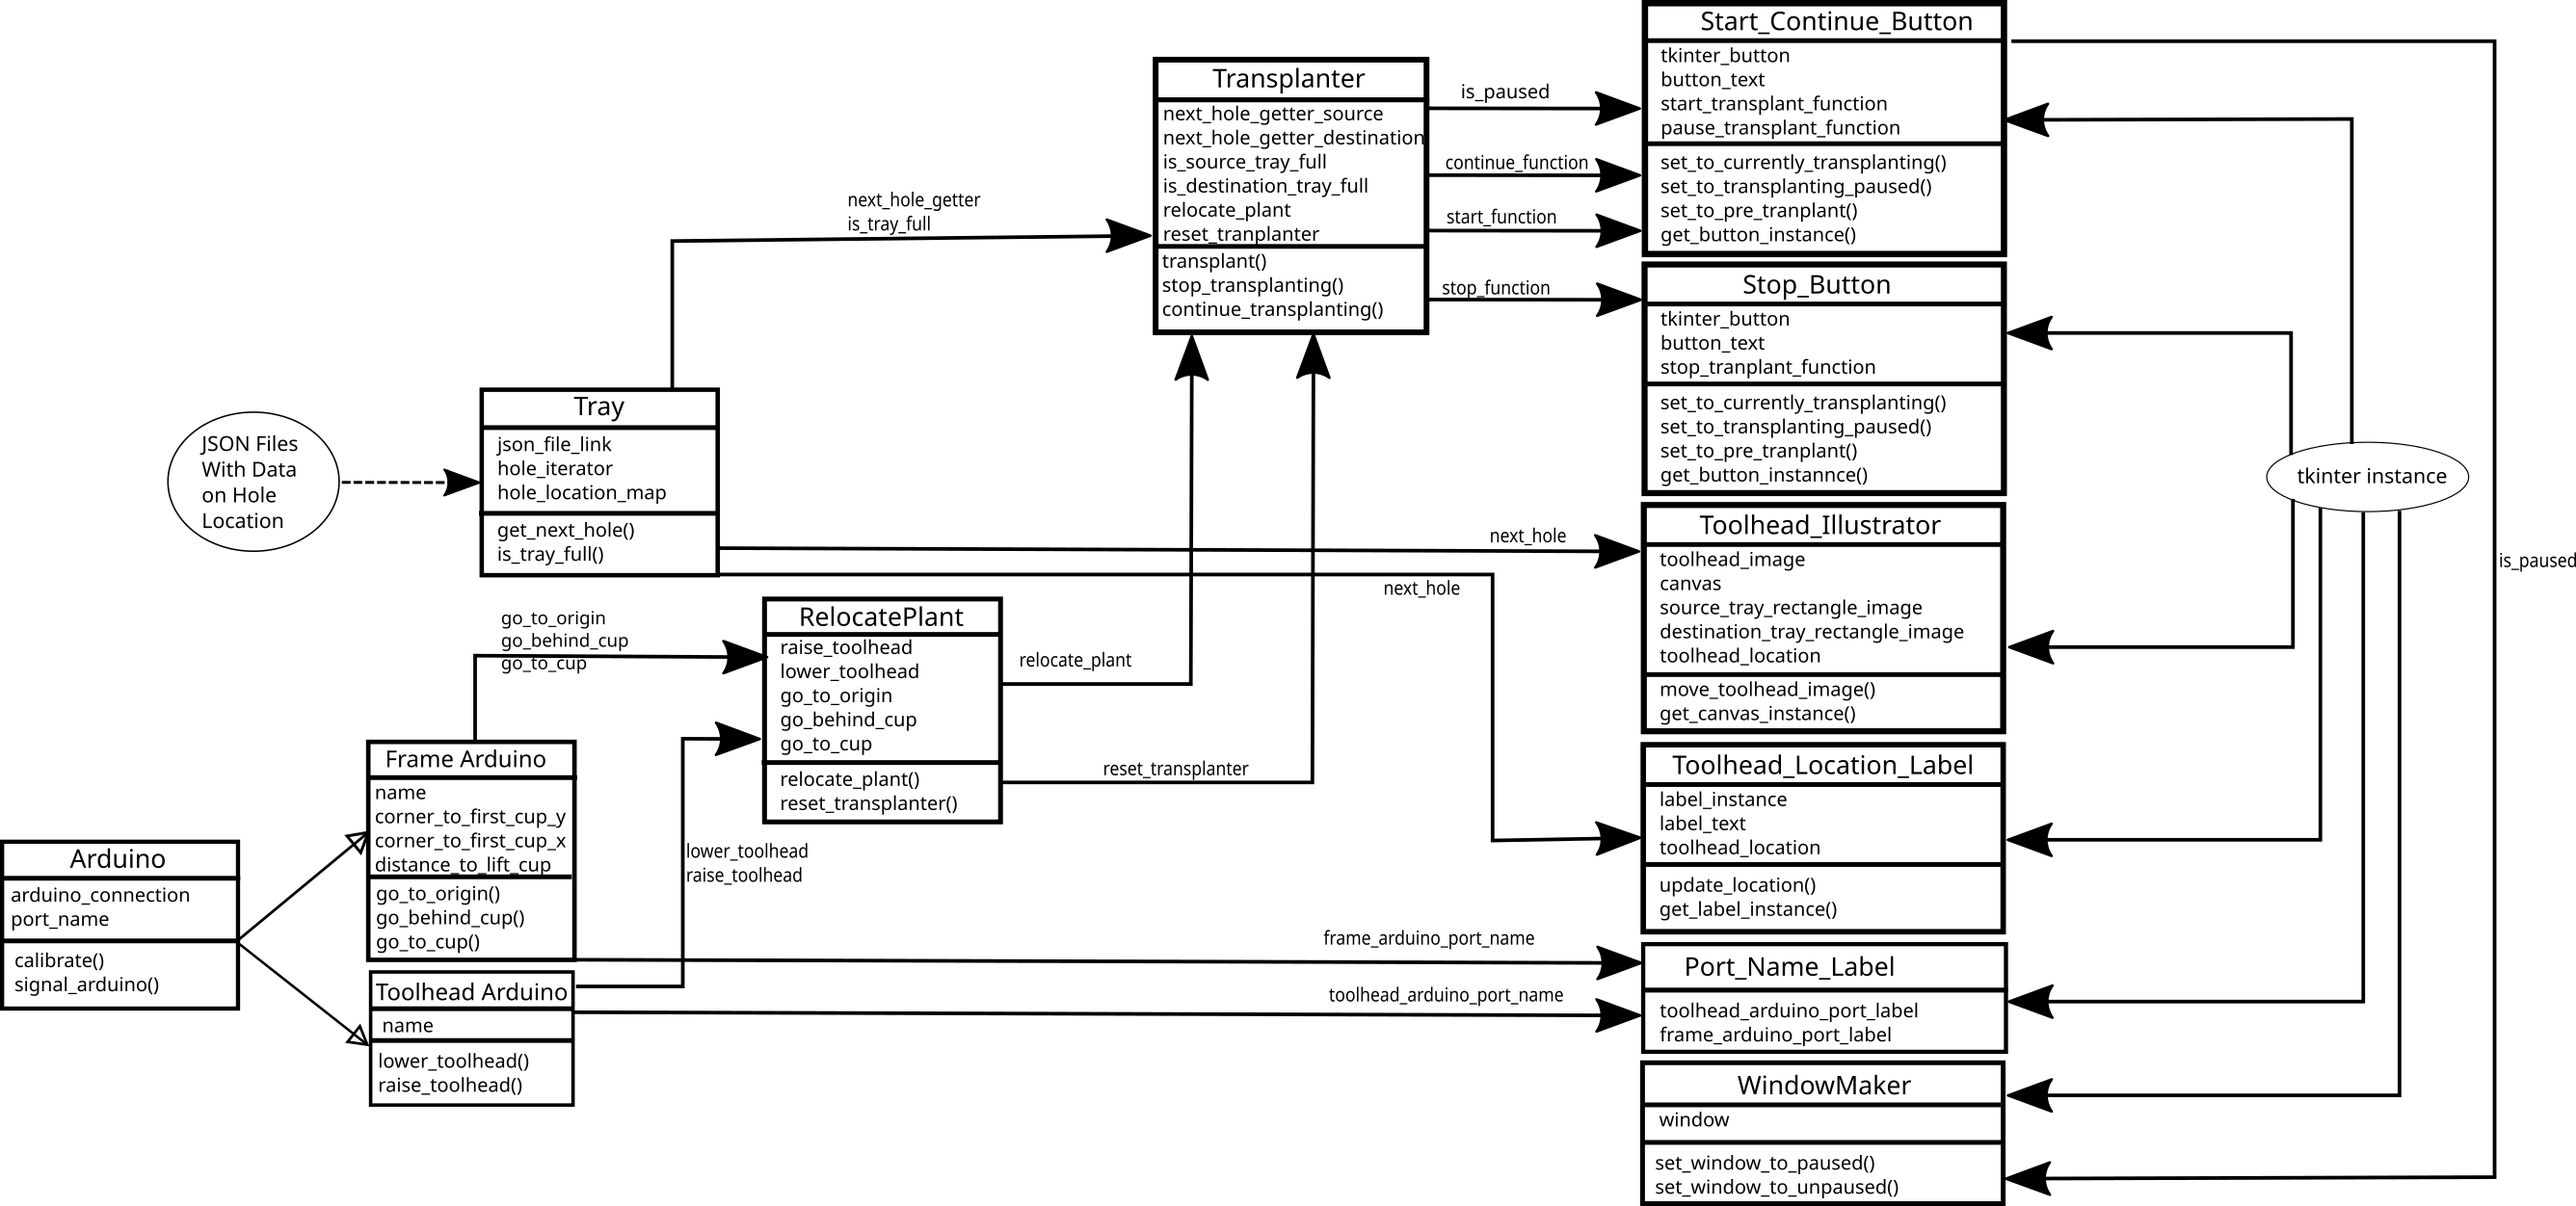
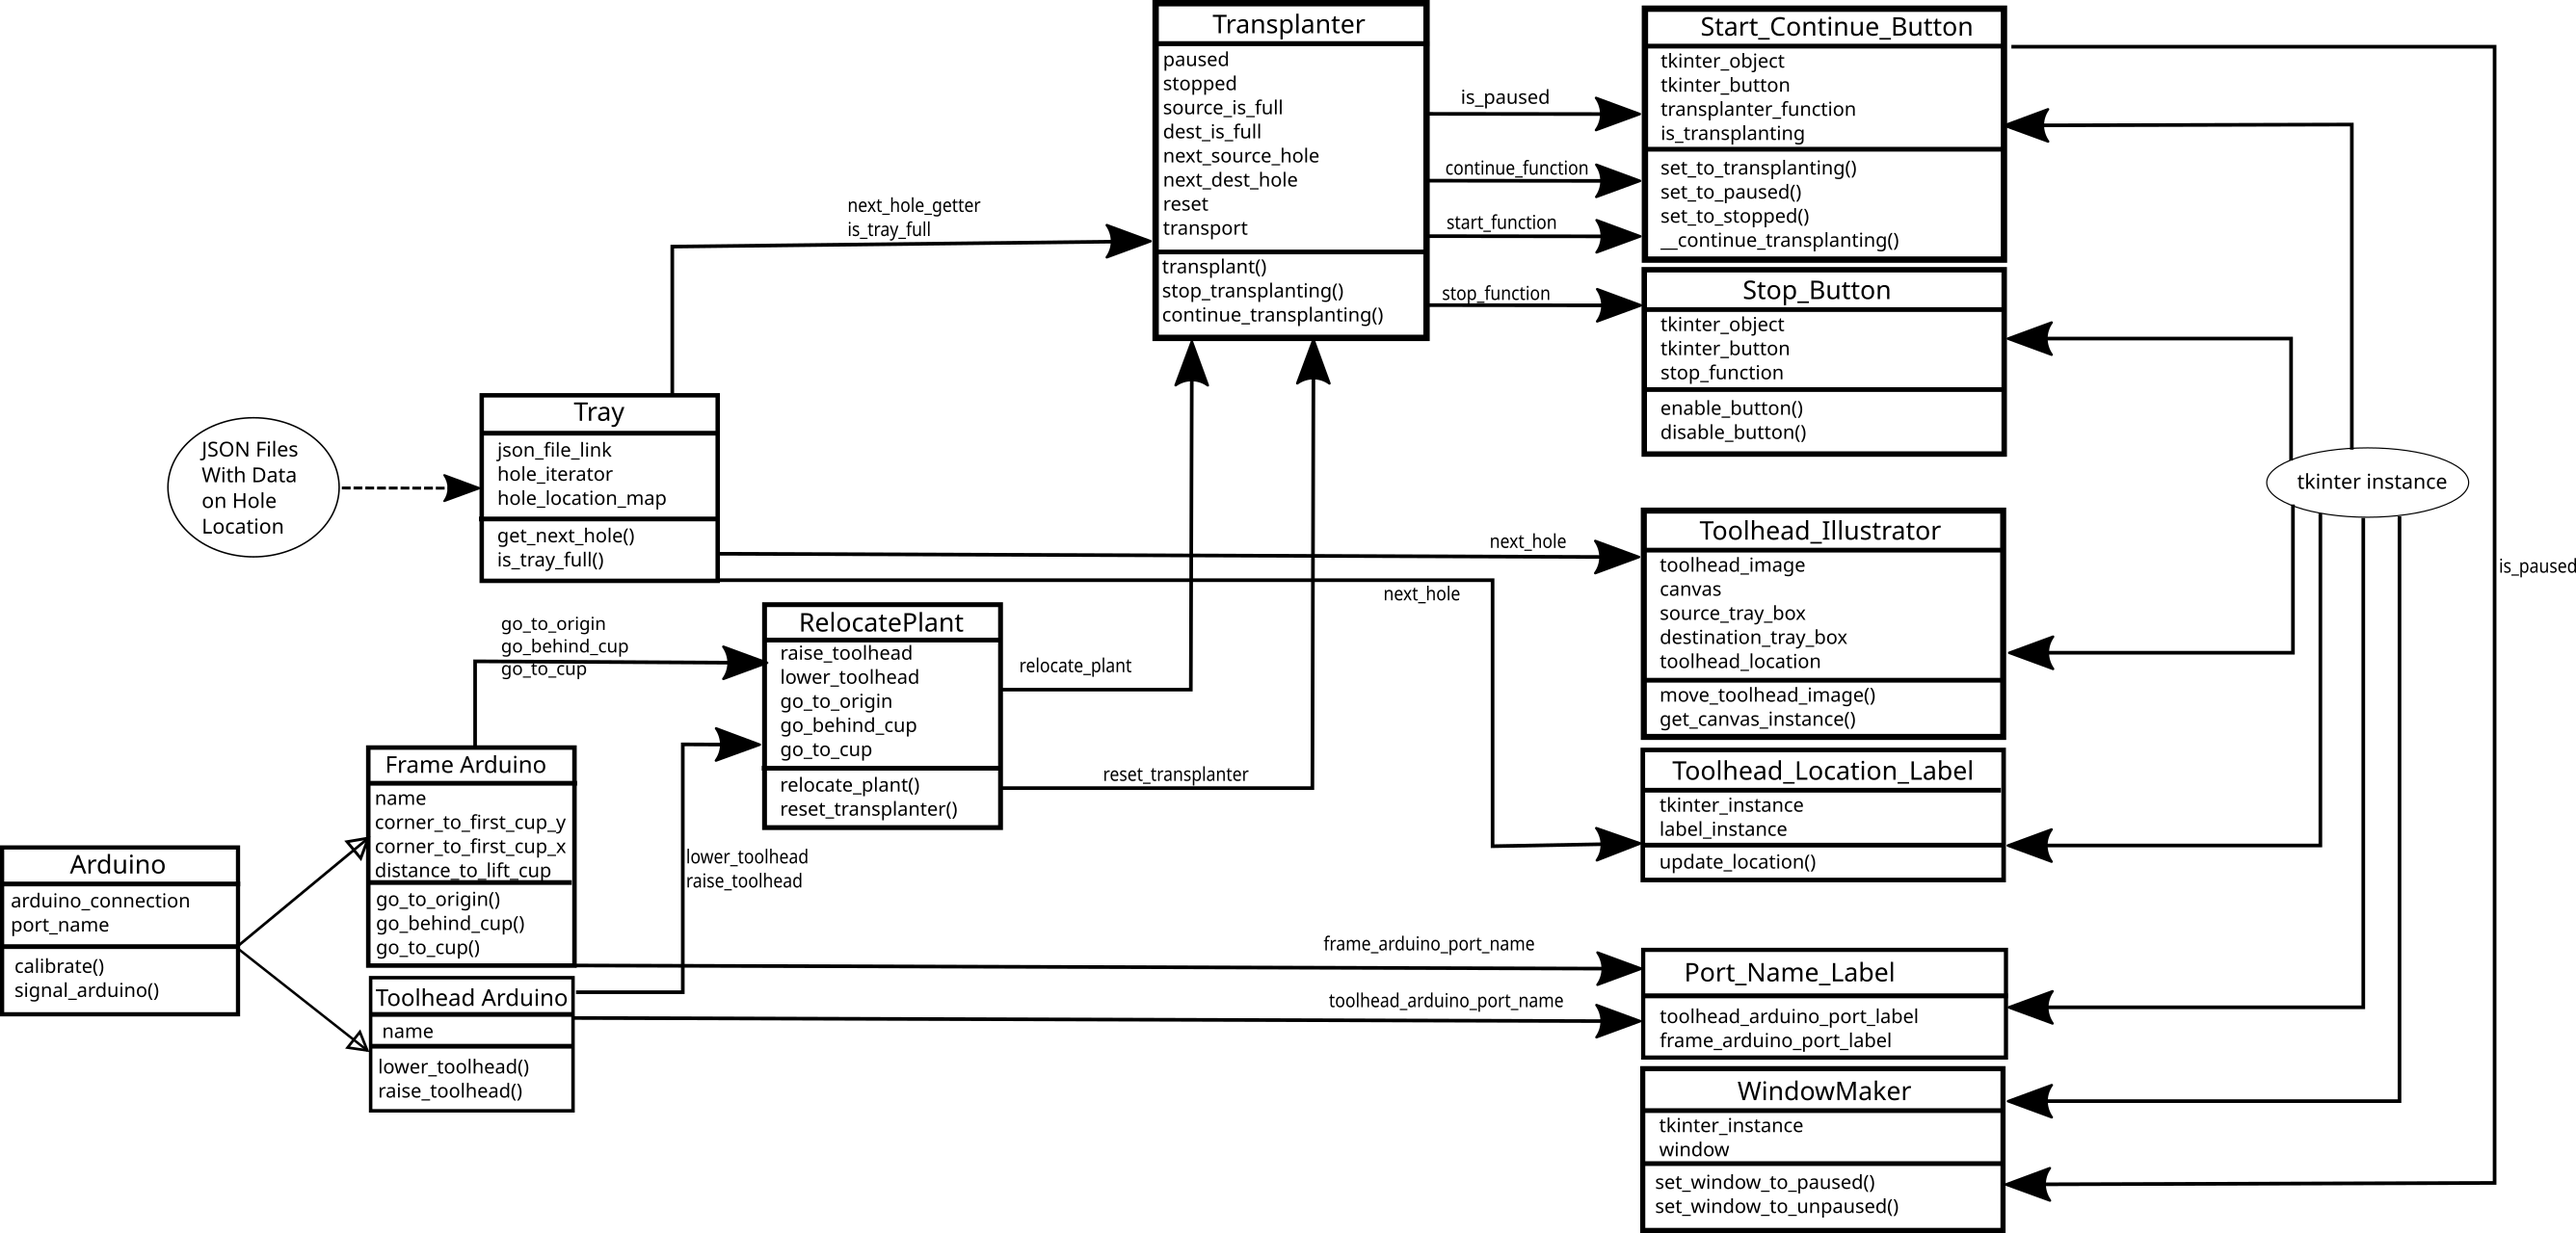
updated documentation

diff --git a/client_side/toolhead_illustrator.py b/client_side/toolhead_illustrator.py
@@ -1,4 +1,4 @@
-"""Module contains the Transplanter class"""
+"""Module contains the Toolhead Illustrator class"""
 
 import tkinter as tk
 import turtle as t
@@ -11,18 +11,29 @@ class ToolheadIllustrator():
 
     Attributes
     ----------
-    tkinter_object : Tkinter.Tk()
+    tkinter_instance : Tkinter.Tk()
         The tkinter object that is being fed into all objects on the window
-    toolhead_image
-    canvas
-    source_tray_rectangle_image
-    destination_tray_rectangle_image
+    toolhead_image : turtle
+        A python 'turtle', which is configured so that it appears as a circle.
+        It will move in accordance with how the toolhead moves
+        https://docs.python.org/3/library/turtle.html
+    canvas : turtle canvas
+        A 'canvas' object which comes with the turtle package. It provides a white
+        rectangle on which the turtle object is allowed to move
+    source_tray_box: turtle rectangle
+        A rectangle image drawn by the 'turtle' during initialization (although it's
+        too fast to see it be drawn so just think of it as a black rectangle on the canvas).
+        It shows roughly where the toolhead is in relation to the source tray
+    destination_tray_box: turtle rectangle
+        A rectangle image drawn by the 'turtle' during initialization (although
+        it's too fast to see it be drawn so just think of it as a black rectangle on the canvas).
+        It shows roughly where the toolhead is in relation to the destination tray
  
     Methods
     ----------
 
     update_location()
-        when the toolhead is somewhere else, change the label
+        when the toolhead is somewhere else, move the turtle object to that location on the canvas
     """
     tkinter_instance = None
     label_instance = None
@@ -44,5 +55,8 @@ class ToolheadIllustrator():
 
 
     def update_location(self, coords:tuple):
-        """change the text on the label to reflect new location"""
+        """
+        When the toolhead is somewhere else, move the turtle object to that location on the canvas
+        The coordinates are modified to fit on the canvas
+        """
         self.turtle.goto(coords[0]/100-140, coords[1]/100-90)

diff --git a/client_side/window_maker.py b/client_side/window_maker.py
@@ -1,4 +1,4 @@
-"""Module contains the GUI class"""
+"""Module contains the WindowMaker class"""
 
 from tkinter import N, Tk, Label, PhotoImage
 
@@ -10,7 +10,7 @@ class WindowMaker():
 
     Attributes
     ----------
-    window : Tkinter Object
+    window : Tkinter Instance
         tkinter has an object instance that stores everything involving
         the GUI
 
@@ -24,8 +24,8 @@ class WindowMaker():
     window = None
 
 
-    def __init__(self, tkinter_object:Tk) -> None:
-        self.window = tkinter_object
+    def __init__(self, tkinter_instance:Tk) -> None:
+        self.window = tkinter_instance
         self.window.title("LettuCSE Transplanter")
         self.window.geometry("1000x800")
         self.window.configure(bg='green')

diff --git a/client_side/toolhead_location_label.py b/client_side/toolhead_location_label.py
@@ -1,4 +1,4 @@
-"""Module contains the Transplanter class"""
+"""Module contains the toolhead location label class"""
 
 from tkinter import N, Label
 
@@ -10,7 +10,7 @@ class ToolheadLocationLabel():
 
     Attributes
     ----------
-    tkinter_object : Tkinter.Tk()
+    tkinter_instance : Tkinter.Tk()
         The tkinter object that is being fed into all objects on the window
     label_instance : Tkinter.Label
         The button object that is placed in a location on the window and changed

diff --git a/client_side/start_continue_button.py b/client_side/start_continue_button.py
@@ -11,7 +11,7 @@ class StartContinueButton():
 
     Attributes
     ----------
-    tkinter_object : Tkinter.Tk()
+    tkinter_instance : Tkinter.Tk()
         The tkinter object that is being fed into all objects on the window
     tkinter_button : Tkinter.Button
         The button object that is placed in a location on the window and changed

diff --git a/client_side/stop_button.py b/client_side/stop_button.py
@@ -9,7 +9,7 @@ class StopButton():
 
     Attributes
     ----------
-    tkinter_object : Tkinter.Tk()
+    tkinter_instance : Tkinter.Tk()
         The tkinter object that is being fed into all objects on the window
     tkinter_button : Tkinter.Button
         The button object that is placed in a location on the window and changed

diff --git a/client_side/toolhead_arduino.py b/client_side/toolhead_arduino.py
@@ -1,4 +1,4 @@
-"""Module contains vertical arduino class"""
+"""Module contains toolhead arduino class"""
 from arduino import Arduino
 
 
